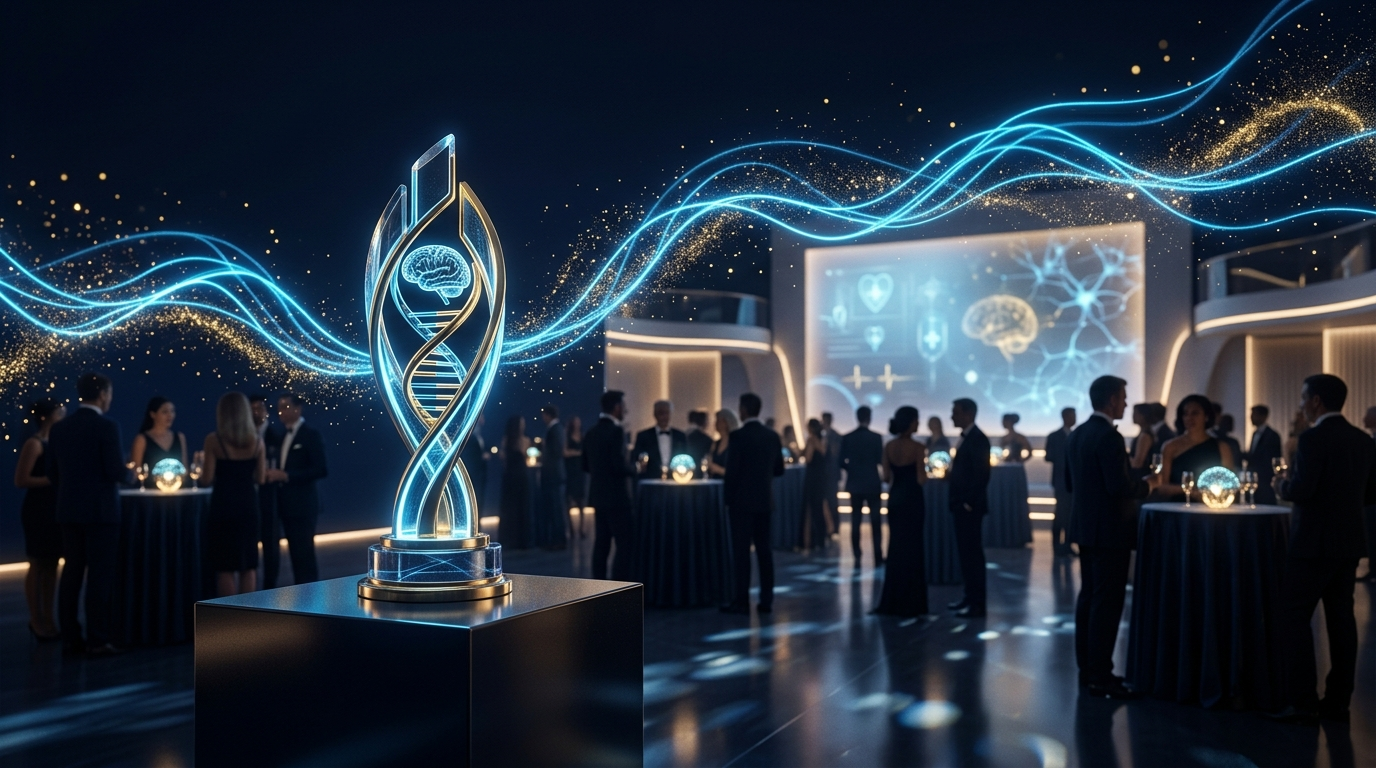
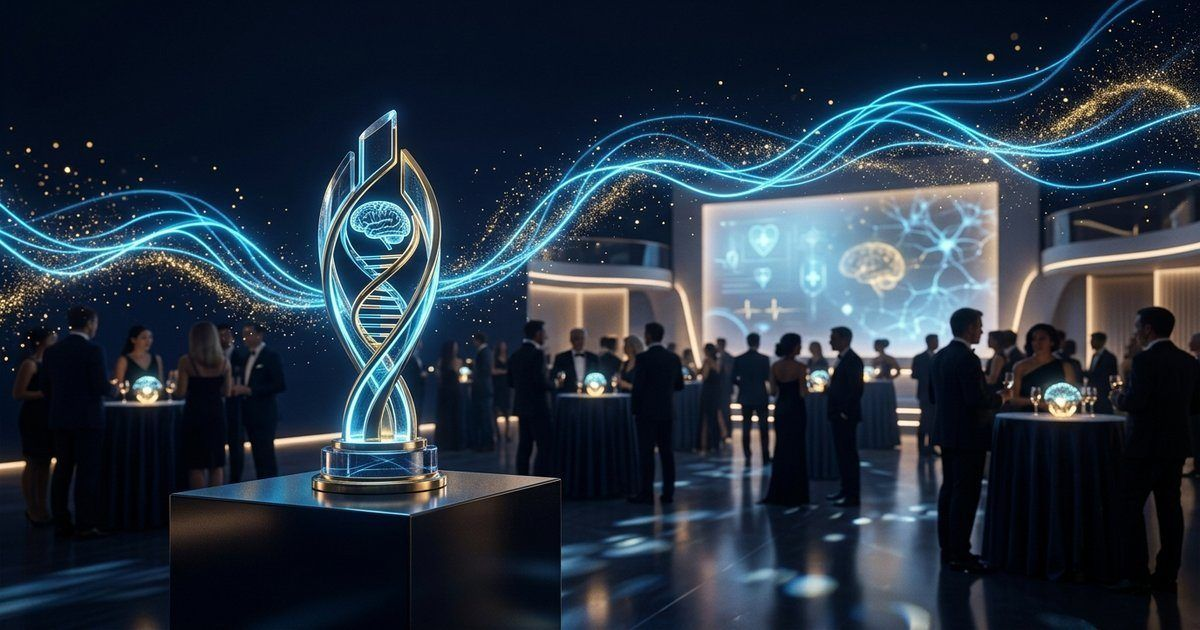
fix: update OpenGraph asset URLs and optimize webhook request headers for CORS compatibility

diff --git a/index.html b/index.html
@@ -16,8 +16,10 @@
   <meta property="og:site_name" content="Sinapse Import">
   <meta property="og:title" content="Sinapse Experience & Sinapse Premiação 2026">
   <meta property="og:description" content="11 de Dezembro em São Paulo · Um dia para virar a chave da sua distribuidora de OPME (Trauma e Coluna). Imersão executiva + Jantar de Gala. Exclusivo para distribuidores parceiros.">
-  <meta property="og:image" content="assets/img/og-sinapse.jpg">
-  <meta property="og:image:secure_url" content="assets/img/og-sinapse.jpg">
+  <meta property="og:url" content="https://rodolfoffranca.github.io/sinapse-experience/">
+  <!-- O WhatsApp exige estritamente URL absoluta com protocolo HTTPS e imagem abaixo de 300KB -->
+  <meta property="og:image" content="https://rodolfoffranca.github.io/sinapse-experience/assets/img/og-sinapse.jpg">
+  <meta property="og:image:secure_url" content="https://rodolfoffranca.github.io/sinapse-experience/assets/img/og-sinapse.jpg">
   <meta property="og:image:type" content="image/jpeg">
   <meta property="og:image:width" content="1200">
   <meta property="og:image:height" content="630">
@@ -28,7 +30,7 @@
   <meta name="twitter:card" content="summary_large_image">
   <meta name="twitter:title" content="Sinapse Experience & Sinapse Premiação 2026">
   <meta name="twitter:description" content="Imersão executiva e noite de gala para distribuidores parceiros de OPME. 11 de Dezembro de 2026 em São Paulo.">
-  <meta name="twitter:image" content="assets/img/og-sinapse.jpg">
+  <meta name="twitter:image" content="https://rodolfoffranca.github.io/sinapse-experience/assets/img/og-sinapse.jpg">
 
   <!-- Favicon Oficial com o 'S' da Sinapse -->
   <link rel="icon" type="image/svg+xml" href="assets/img/favicon.svg">

diff --git a/js/app.js b/js/app.js
@@ -437,8 +437,10 @@ function handleFormSubmit(e) {
     fetch(EVENT_CONFIG.googleSheetsWebhookUrl.trim(), {
       method: "POST",
       mode: "no-cors", // Necessário para evitar bloqueio de CORS do Google Apps Script
+      keepalive: true,
       headers: {
-        "Content-Type": "application/json"
+        // text/plain é "safelisted" em no-cors; application/json faz o navegador bloquear a requisição
+        "Content-Type": "text/plain;charset=utf-8"
       },
       body: JSON.stringify(payload)
     }).catch(err => {
